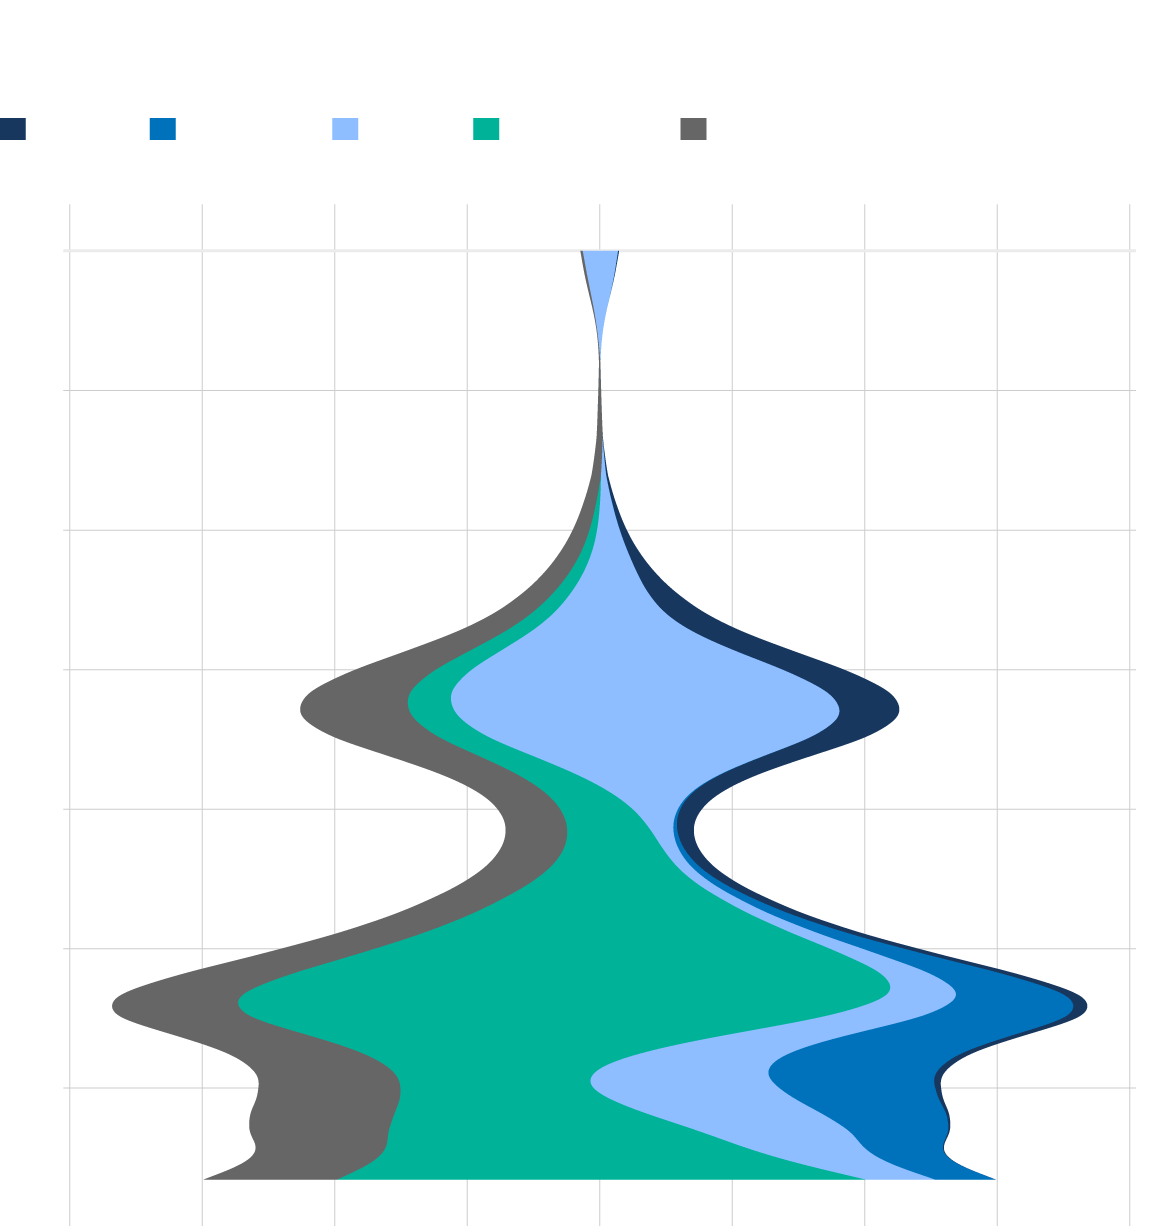
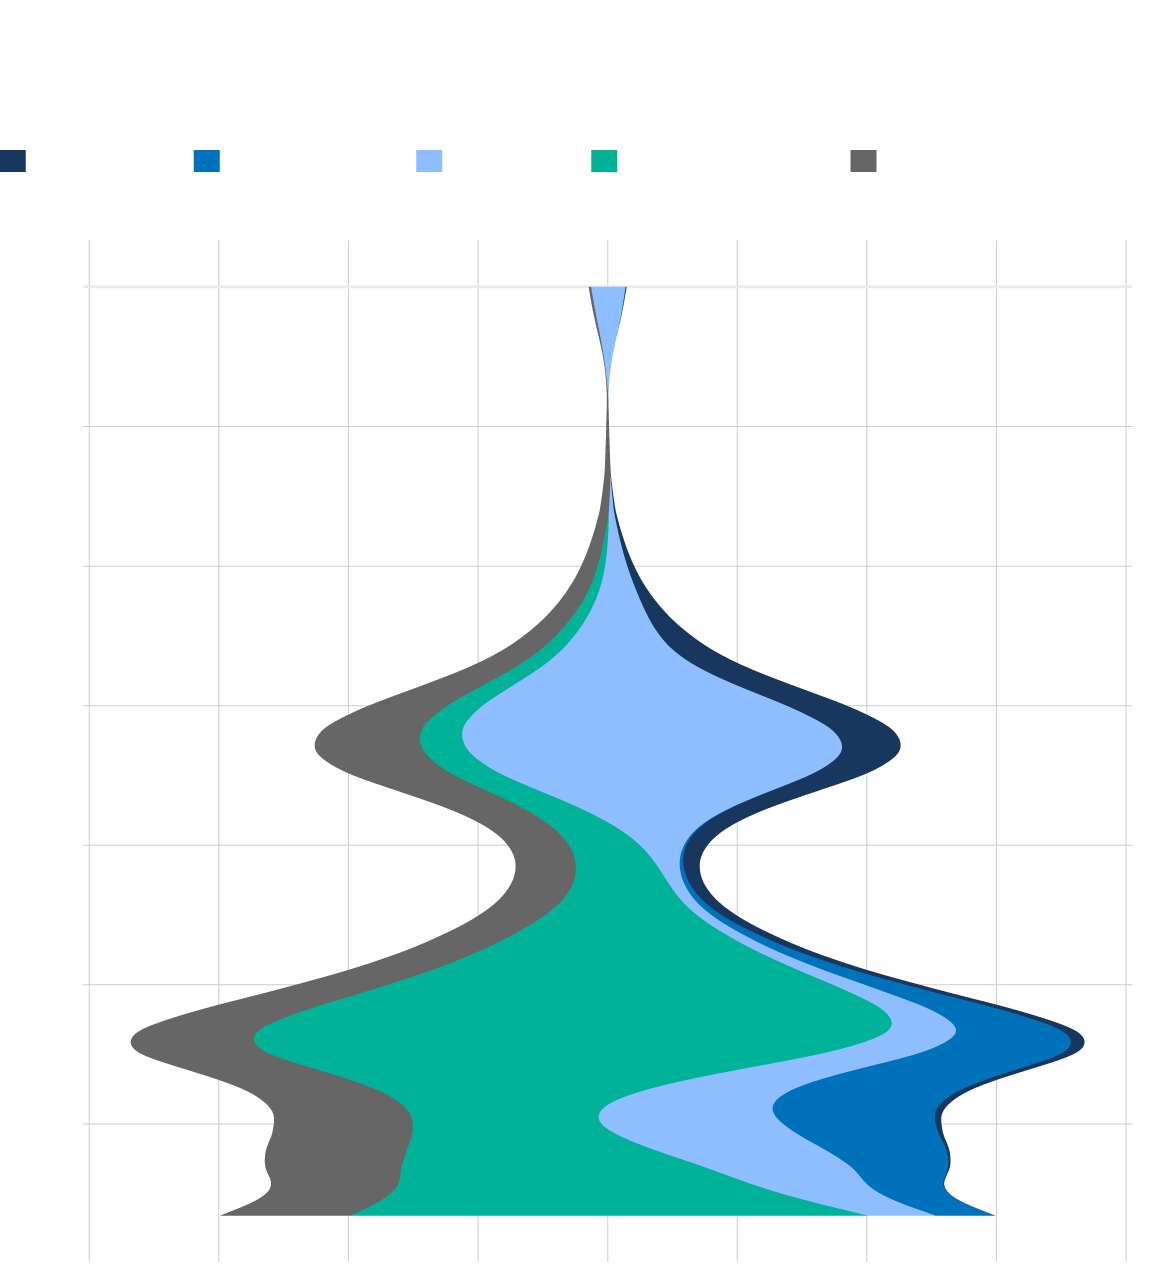
fix responsive issues

diff --git a/products/gotm/2023-04/monitoring-movement-through-the-darien-jungle-in-panama.html b/products/gotm/2023-04/monitoring-movement-through-the-darien-jungle-in-panama.html
@@ -400,56 +400,56 @@
           <div id="g-darien_nationalities-box" class="ai2html">
 
             <!-- Artboard: _540 -->
-            <div id="g-darien_nationalities-_540" class="g-artboard" style="max-width: 719px;max-height: 765px" data-aspect-ratio="0.94" data-min-width="0" data-max-width="719">
-          <div style="padding: 0 0 106.3368% 0;"></div>
+            <div id="g-darien_nationalities-_540" class="g-artboard" style="max-width: 719px;max-height: 789px" data-aspect-ratio="0.911" data-min-width="0" data-max-width="719">
+          <div style="padding: 0 0 109.7222% 0;"></div>
               <img id="g-darien_nationalities-_540-img" class="g-aiImg" alt="" src="darien_nationalities-_540.png"/>
-              <div id="g-ai0-1" class="g-ai2html-settings g-aiAbs g-aiPointText" style="top:1.702%;margin-top:-12.4px;left:0%;width:403px;">
+              <div id="g-ai0-1" class="g-content g-aiAbs g-aiPointText" style="top:1.7253%;margin-top:-11.9px;left:0%;width:384px;">
                 <p class="g-pstyle0">Main nationalities crossing the Darien Gap </p>
               </div>
-              <div id="g-ai0-2" class="g-ai2html-settings g-aiAbs g-aiPointText" style="top:6.3389%;margin-top:-9.8px;left:0%;width:250px;">
+              <div id="g-ai0-2" class="g-content g-aiAbs g-aiPointText" style="top:7.0927%;margin-top:-9.8px;left:0%;width:250px;">
                 <p class="g-pstyle1">From January 2020 to May 2023</p>
               </div>
-              <div id="g-ai0-3" class="g-content g-aiAbs g-aiPointText" style="top:10.5772%;margin-top:-8.8px;left:2.9509%;width:54px;">
+              <div id="g-ai0-3" class="g-content g-aiAbs g-aiPointText" style="top:12.7825%;margin-top:-8.8px;left:2.7773%;width:54px;">
                 <p class="g-pstyle2">Cuba</p>
               </div>
-              <div id="g-ai0-4" class="g-content g-aiAbs g-aiPointText" style="top:10.5772%;margin-top:-8.8px;left:15.6245%;width:73px;">
+              <div id="g-ai0-4" class="g-content g-aiAbs g-aiPointText" style="top:12.7825%;margin-top:-8.8px;left:19.8444%;width:73px;">
                 <p class="g-pstyle2">Ecuador</p>
               </div>
-              <div id="g-ai0-5" class="g-content g-aiAbs g-aiPointText" style="top:10.5772%;margin-top:-8.8px;left:31.5967%;width:52px;">
+              <div id="g-ai0-5" class="g-content g-aiAbs g-aiPointText" style="top:12.7825%;margin-top:-8.8px;left:39.062%;width:52px;">
                 <p class="g-pstyle2">Haiti</p>
               </div>
-              <div id="g-ai0-6" class="g-content g-aiAbs g-aiPointText" style="top:10.5772%;margin-top:-8.8px;left:43.7495%;width:85px;">
+              <div id="g-ai0-6" class="g-content g-aiAbs g-aiPointText" style="top:12.7825%;margin-top:-8.8px;left:54.6075%;width:85px;">
                 <p class="g-pstyle2">Venezuela</p>
               </div>
-              <div id="g-ai0-7" class="g-content g-aiAbs g-aiPointText" style="top:10.5772%;margin-top:-8.8px;left:61.6314%;width:59px;">
+              <div id="g-ai0-7" class="g-content g-aiAbs g-aiPointText" style="top:12.7825%;margin-top:-8.8px;left:76.562%;width:59px;">
                 <p class="g-pstyle2">Other</p>
               </div>
-              <div id="g-ai0-8" class="g-content g-aiAbs g-aiPointText" style="top:15.2236%;margin-top:-7.2px;left:2.583%;width:57px;">
+              <div id="g-ai0-8" class="g-content g-aiAbs g-aiPointText" style="top:17.602%;margin-top:-7.2px;left:7.8331%;margin-left:-28.5px;width:57px;">
                 <p class="g-pstyle3">-2,000</p>
               </div>
-              <div id="g-ai0-9" class="g-content g-aiAbs g-aiPointText" style="top:15.2236%;margin-top:-7.2px;left:25.5753%;width:57px;">
+              <div id="g-ai0-9" class="g-content g-aiAbs g-aiPointText" style="top:17.602%;margin-top:-7.2px;left:29.9747%;margin-left:-28.5px;width:57px;">
                 <p class="g-pstyle3">-1,000</p>
               </div>
-              <div id="g-ai0-10" class="g-content g-aiAbs g-aiPointText" style="top:15.2236%;margin-top:-7.2px;left:51.7196%;width:29px;">
+              <div id="g-ai0-10" class="g-content g-aiAbs g-aiPointText" style="top:17.602%;margin-top:-7.2px;left:52.7604%;margin-left:-14.5px;width:29px;">
                 <p class="g-pstyle3">0</p>
               </div>
-              <div id="g-ai0-11" class="g-content g-aiAbs g-aiPointText" style="top:15.2236%;margin-top:-7.2px;left:72.6721%;width:52px;">
+              <div id="g-ai0-11" class="g-content g-aiAbs g-aiPointText" style="top:17.602%;margin-top:-7.2px;left:75.2728%;margin-left:-26px;width:52px;">
                 <p class="g-pstyle3">1,000</p>
               </div>
-              <div id="g-ai0-12" class="g-content g-aiAbs g-aiPointText" style="top:15.2236%;margin-top:-7.2px;left:94.3663%;width:52px;">
-                <p class="g-pstyle3">2,000</p>
+              <div id="g-ai0-12" class="g-content g-aiAbs g-aiPointText" style="top:17.602%;margin-top:-7.2px;right:1.3018%;width:52px;">
+                <p class="g-pstyle4">2,000</p>
               </div>
-              <div id="g-ai0-13" class="g-content g-aiAbs g-aiPointText" style="top:20.6113%;margin-top:-7.2px;left:0.1906%;width:50px;">
-                <p class="g-pstyle3">2020</p>
+              <div id="g-ai0-13" class="g-content g-aiAbs g-aiPointText" style="top:22.6653%;margin-top:-7.2px;left:0%;width:50px;">
+                <p class="g-pstyle5">2020</p>
               </div>
-              <div id="g-ai0-14" class="g-content g-aiAbs g-aiPointText" style="top:43.4685%;margin-top:-7.2px;left:0.1906%;width:50px;">
-                <p class="g-pstyle3">2021</p>
+              <div id="g-ai0-14" class="g-content g-aiAbs g-aiPointText" style="top:44.8171%;margin-top:-7.2px;left:0%;width:50px;">
+                <p class="g-pstyle5">2021</p>
               </div>
-              <div id="g-ai0-15" class="g-content g-aiAbs g-aiPointText" style="top:66.1623%;margin-top:-7.2px;left:0.1906%;width:50px;">
-                <p class="g-pstyle3">2022</p>
+              <div id="g-ai0-15" class="g-content g-aiAbs g-aiPointText" style="top:66.8108%;margin-top:-7.2px;left:0%;width:50px;">
+                <p class="g-pstyle5">2022</p>
               </div>
-              <div id="g-ai0-16" class="g-content g-aiAbs g-aiPointText" style="top:88.693%;margin-top:-7.2px;left:0.1906%;width:50px;">
-                <p class="g-pstyle3">2023</p>
+              <div id="g-ai0-16" class="g-content g-aiAbs g-aiPointText" style="top:88.6463%;margin-top:-7.2px;left:0%;width:50px;">
+                <p class="g-pstyle5">2023</p>
               </div>
             </div>
           
@@ -457,25 +457,25 @@
             <div id="g-darien_nationalities-_720" class="g-artboard" style="min-width: 720px;max-width: 959px;max-height: 387px" data-aspect-ratio="2.477" data-min-width="720" data-max-width="959">
           <div style="padding: 0 0 40.3646% 0;"></div>
               <img id="g-darien_nationalities-_720-img" class="g-aiImg" alt="" src="darien_nationalities-_720.png"/>
-              <div id="g-ai1-1" class="g-ai2html-settings g-aiAbs g-aiPointText" style="top:3.3629%;margin-top:-12.4px;left:0%;width:403px;">
+              <div id="g-ai1-1" class="g-content g-aiAbs g-aiPointText" style="top:3.3629%;margin-top:-12.4px;left:0%;width:403px;">
                 <p class="g-pstyle0">Main nationalities crossing the Darien Gap </p>
               </div>
-              <div id="g-ai1-2" class="g-ai2html-settings g-aiAbs g-aiPointText" style="top:11.8793%;margin-top:-9.8px;left:0%;width:247px;">
+              <div id="g-ai1-2" class="g-content g-aiAbs g-aiPointText" style="top:11.8793%;margin-top:-9.8px;left:0%;width:247px;">
                 <p class="g-pstyle1">From January 2020 to May2023</p>
               </div>
               <div id="g-ai1-3" class="g-content g-aiAbs g-aiPointText" style="top:20.5759%;margin-top:-8.8px;left:2.2132%;width:54px;">
                 <p class="g-pstyle2">Cuba</p>
               </div>
-              <div id="g-ai1-4" class="g-content g-aiAbs g-aiPointText" style="top:20.5759%;margin-top:-8.8px;left:9.635%;width:73px;">
+              <div id="g-ai1-4" class="g-content g-aiAbs g-aiPointText" style="top:20.5759%;margin-top:-8.8px;left:12.2392%;width:73px;">
                 <p class="g-pstyle2">Ecuador</p>
               </div>
-              <div id="g-ai1-5" class="g-content g-aiAbs g-aiPointText" style="top:20.5759%;margin-top:-8.8px;left:19.4007%;width:52px;">
+              <div id="g-ai1-5" class="g-content g-aiAbs g-aiPointText" style="top:20.5759%;margin-top:-8.8px;left:24.609%;width:52px;">
                 <p class="g-pstyle2">Haiti</p>
               </div>
-              <div id="g-ai1-6" class="g-content g-aiAbs g-aiPointText" style="top:20.5759%;margin-top:-8.8px;left:26.6923%;width:85px;">
+              <div id="g-ai1-6" class="g-content g-aiAbs g-aiPointText" style="top:20.5759%;margin-top:-8.8px;left:34.5048%;width:85px;">
                 <p class="g-pstyle2">Venezuela</p>
               </div>
-              <div id="g-ai1-7" class="g-content g-aiAbs g-aiPointText" style="top:20.5759%;margin-top:-8.8px;left:38.2809%;width:59px;">
+              <div id="g-ai1-7" class="g-content g-aiAbs g-aiPointText" style="top:20.5759%;margin-top:-8.8px;left:47.9163%;width:59px;">
                 <p class="g-pstyle2">Other</p>
               </div>
               <div id="g-ai1-8" class="g-content g-aiAbs g-aiPointText" style="top:28.4659%;margin-top:-7.2px;left:0.0001%;width:52px;">
@@ -511,25 +511,25 @@
             <div id="g-darien_nationalities-_960" class="g-artboard" style="min-width: 960px;" data-aspect-ratio="2.59" data-min-width="960">
           <div style="padding: 0 0 38.6089% 0;"></div>
               <img id="g-darien_nationalities-_960-img" class="g-aiImg" alt="" src="darien_nationalities-_960.png"/>
-              <div id="g-ai2-1" class="g-ai2html-settings g-aiAbs g-aiPointText" style="top:2.7219%;margin-top:-12.4px;left:0%;width:403px;">
+              <div id="g-ai2-1" class="g-content g-aiAbs g-aiPointText" style="top:2.7219%;margin-top:-12.4px;left:0%;width:403px;">
                 <p class="g-pstyle0">Main nationalities crossing the Darien Gap </p>
               </div>
-              <div id="g-ai2-2" class="g-ai2html-settings g-aiAbs g-aiPointText" style="top:9.0929%;margin-top:-9.8px;left:0%;width:250px;">
+              <div id="g-ai2-2" class="g-content g-aiAbs g-aiPointText" style="top:9.0929%;margin-top:-9.8px;left:0%;width:250px;">
                 <p class="g-pstyle1">From January 2020 to May 2023</p>
               </div>
               <div id="g-ai2-3" class="g-content g-aiAbs g-aiPointText" style="top:16.393%;margin-top:-8.8px;left:1.7134%;width:54px;">
                 <p class="g-pstyle2">Cuba</p>
               </div>
-              <div id="g-ai2-4" class="g-content g-aiAbs g-aiPointText" style="top:16.393%;margin-top:-8.8px;left:7.4594%;width:73px;">
+              <div id="g-ai2-4" class="g-content g-aiAbs g-aiPointText" style="top:16.393%;margin-top:-8.8px;left:9.4755%;width:73px;">
                 <p class="g-pstyle2">Ecuador</p>
               </div>
-              <div id="g-ai2-5" class="g-content g-aiAbs g-aiPointText" style="top:16.393%;margin-top:-8.8px;left:15.0199%;width:52px;">
+              <div id="g-ai2-5" class="g-content g-aiAbs g-aiPointText" style="top:16.393%;margin-top:-8.8px;left:19.0521%;width:52px;">
                 <p class="g-pstyle2">Haiti</p>
               </div>
-              <div id="g-ai2-6" class="g-content g-aiAbs g-aiPointText" style="top:16.393%;margin-top:-8.8px;left:20.665%;width:85px;">
+              <div id="g-ai2-6" class="g-content g-aiAbs g-aiPointText" style="top:16.393%;margin-top:-8.8px;left:26.915%;width:85px;">
                 <p class="g-pstyle2">Venezuela</p>
               </div>
-              <div id="g-ai2-7" class="g-content g-aiAbs g-aiPointText" style="top:16.393%;margin-top:-8.8px;left:29.6368%;width:59px;">
+              <div id="g-ai2-7" class="g-content g-aiAbs g-aiPointText" style="top:16.393%;margin-top:-8.8px;left:37.3989%;width:59px;">
                 <p class="g-pstyle2">Other</p>
               </div>
               <div id="g-ai2-8" class="g-content g-aiAbs g-aiPointText" style="top:22.9204%;margin-top:-8.8px;left:0.2016%;width:57px;">

diff --git a/products/gotm/2023-04/svg-style.css b/products/gotm/2023-04/svg-style.css
@@ -166,13 +166,13 @@
 	#g-darien_nationalities-_540 p {
 		font-family:Lato;
 		font-weight:700;
-		line-height:24px;
+		line-height:23px;
 		height:auto;
 		filter:alpha(opacity=100);
 		-ms-filter:progid:DXImageTransform.Microsoft.Alpha(Opacity=100);
 		opacity:1;
 		letter-spacing:0em;
-		font-size:20px;
+		font-size:19px;
 		text-align:left;
 		color:rgb(0,0,0);
 		text-transform:none;
@@ -183,7 +183,7 @@
 		position:static;
 	}
 	#g-darien_nationalities-_540 .g-pstyle0 {
-		height:24px;
+		height:23px;
 	}
 	#g-darien_nationalities-_540 .g-pstyle1 {
 		font-weight:400;
@@ -200,6 +200,22 @@
 		color:rgb(26,26,26);
 	}
 	#g-darien_nationalities-_540 .g-pstyle3 {
+		font-weight:400;
+		line-height:14px;
+		height:14px;
+		font-size:12px;
+		text-align:center;
+		color:rgb(26,26,26);
+	}
+	#g-darien_nationalities-_540 .g-pstyle4 {
+		font-weight:400;
+		line-height:14px;
+		height:14px;
+		font-size:12px;
+		text-align:right;
+		color:rgb(26,26,26);
+	}
+	#g-darien_nationalities-_540 .g-pstyle5 {
 		font-weight:400;
 		line-height:14px;
 		height:14px;
